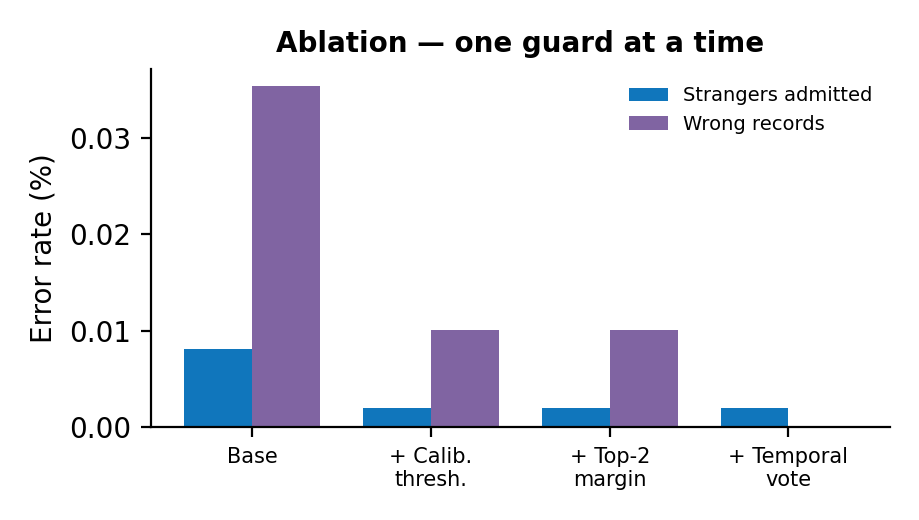
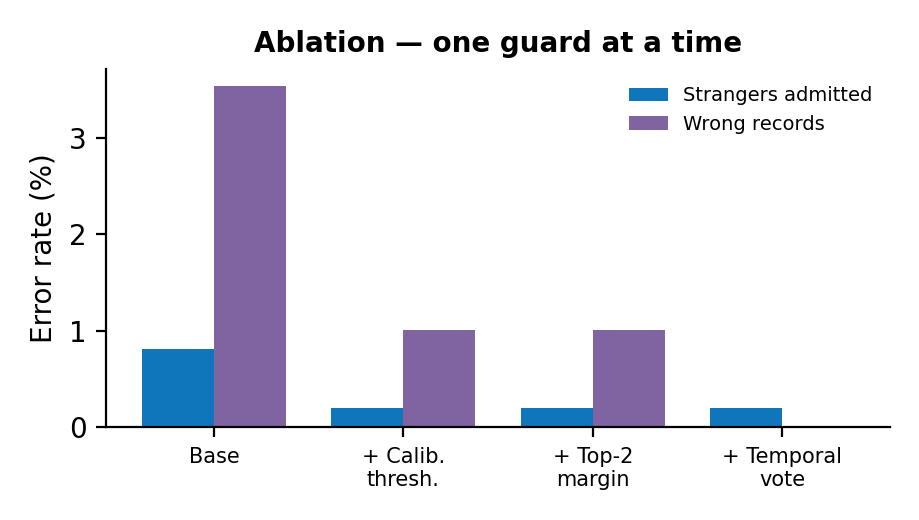
Fix a 100x error in the ablation chart, and the stale Classifier row
- evaluation.json stores FAR and the false-log rate as FRACTIONS (0.0081 = 0.81%),
  but the chart plotted the raw value on an axis labelled "Error rate (%)" — so the
  bars read 0.008% instead of 0.81%. Scaled by 100.
- The stack table said "Linear SVM + cosine-to-centroid". The SVM is loaded but never
  called: /predict compares the embedding against every centroid directly, because the
  top-2 margin gate needs the runner-up score and an SVM only returns its winner. The
  row now says "Nearest-centroid, cosine similarity (no classifier)".

Both are the same class of bug the generator was meant to prevent — the numbers are
read from the measurement files, but the prose and the chart axes were not, so they
drifted when the code changed underneath them.

diff --git a/Server/scripts/make_ppt.py b/Server/scripts/make_ppt.py
@@ -139,9 +139,9 @@ def figures(ev, bm):
     rows = ev["ablation"]
     fig, ax = plt.subplots(figsize=(4.6, 2.6))
     x = range(len(rows))
-    ax.bar([i - 0.19 for i in x], [r["far"] for r in rows], 0.38,
+    ax.bar([i - 0.19 for i in x], [r["far"] * 100 for r in rows], 0.38,
            label="Strangers admitted", color=M_BLUE)
-    ax.bar([i + 0.19 for i in x], [r["false_log_rate"] for r in rows], 0.38,
+    ax.bar([i + 0.19 for i in x], [r["false_log_rate"] * 100 for r in rows], 0.38,
            label="Wrong records", color="#8064a2")
     ax.set_xticks(list(x))
     ax.set_xticklabels(["Base", "+ Calib.\nthresh.", "+ Top-2\nmargin", "+ Temporal\nvote"],
@@ -410,7 +410,7 @@ def main():
         ("Face Detection", "RetinaFace / SCRFD  (det_10g)"),
         ("Recognition", "ArcFace ResNet-50 (buffalo_l) → 512-d embedding"),
         ("Runtime", "ONNX Runtime — CPU only, NO GPU"),
-        ("Classifier", "Linear SVM + cosine-to-centroid  (scikit-learn)"),
+        ("Matching", "Nearest-centroid, cosine similarity  (no classifier)"),
         ("Frontend", "React · Vite · TailwindCSS"),
         ("Backend", "Flask REST API  (Bearer-token auth)"),
         ("Storage", "CSV + JSON on disk — no cloud, no database server"),